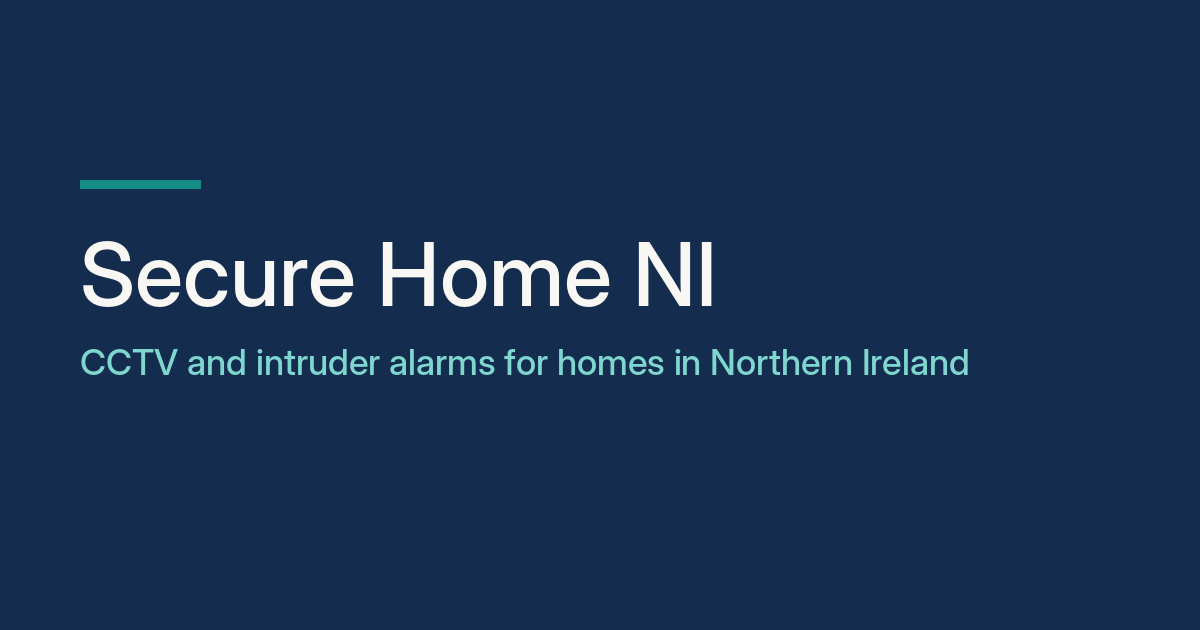
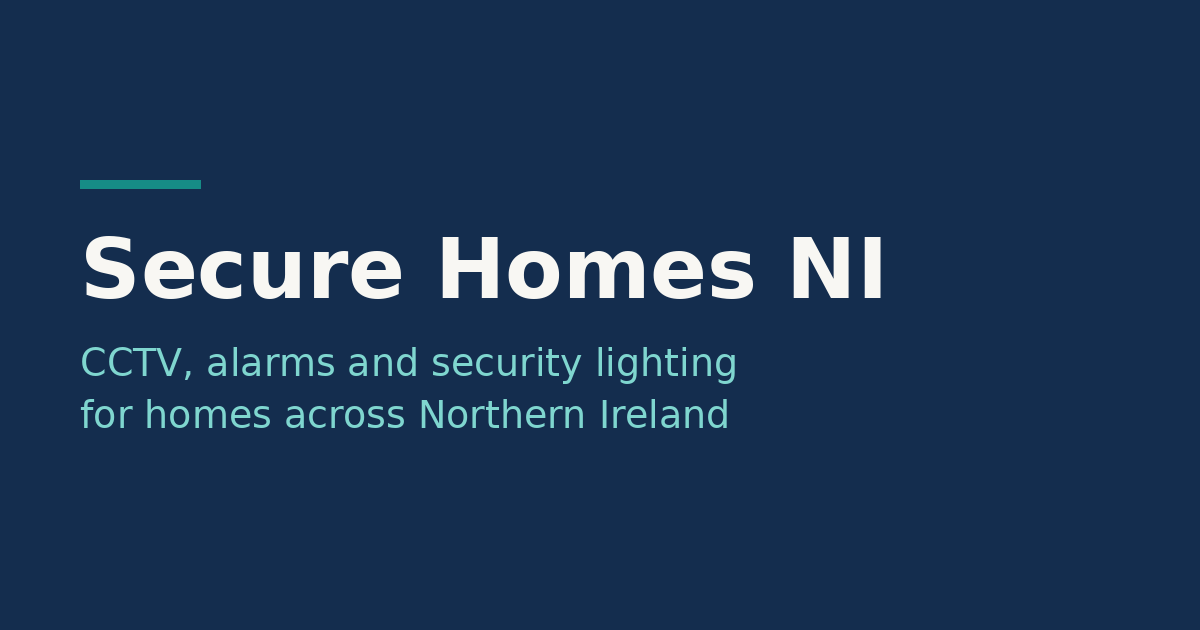
Rename to Secure Homes NI
- Business name, sleigh artwork, social sharing image, README, package name
- Logo scales down slightly below 400px so the header fits at 320px
- Areas list uses one column on the narrowest phones (WCAG reflow at 320px)

Claude-Session: https://claude.ai/code/session_01KNvLstxyJPfCd5R9RbgFaS

Changed region(s): [[0.0617, 0.3619, 0.74, 0.4825], [0.0617, 0.5429, 0.8017, 0.6032], [0.0617, 0.6333, 0.6167, 0.6937]]

diff --git a/src/config/site.ts b/src/config/site.ts
@@ -13,7 +13,7 @@
  */
 
 export const site = {
-  name: 'Secure Home NI', // PLACEHOLDER: trading name exactly as on Google Business Profile
+  name: 'Secure Homes NI', // PLACEHOLDER: trading name exactly as on Google Business Profile
   // The company behind the brand, shown in the footer
   tradingAs: {
     name: 'Unified Integrated Systems',
@@ -93,7 +93,7 @@ export const site = {
     { name: 'Pyronix', role: 'intruder alarm specialists', text: 'Wired and wireless alarms, with the HomeControl+ app to set and unset from anywhere.' },
   ],
 
-  // Christmas effects in the homepage hero: falling snow and a Secure Home NI sleigh. It only runs between these dates (month-day),
+  // Christmas effects in the homepage hero: falling snow and a Secure Homes NI sleigh. It only runs between these dates (month-day),
   // checked in the visitor's browser, so it switches itself on and off each year
   // without a rebuild. Set show: false to turn it off completely.
   christmas: {

diff --git a/README.md b/README.md
@@ -1,4 +1,4 @@
-# Secure Home NI website
+# Secure Homes NI website
 
 Marketing website for a home security installer (CCTV and intruder alarms), built with Astro, Tailwind CSS v4 and TypeScript, and deployed as a static site on Cloudflare Pages. The quote form is handled by a Cloudflare Pages Function with Turnstile spam protection.
 
@@ -97,7 +97,7 @@ Copy an existing Markdown file in the matching `src/content/` folder and change 
 `bundle` in `src/config/site.ts`: price, what's included and terms. Set `show: false` to hide the section.
 
 ### Christmas effects
-The homepage hero shows gentle snowfall and a Secure Home NI sleigh (drawn in `components/home/Christmas.astro`) between the dates in `christmas` in `src/config/site.ts` (15 November to 6 January by default). It turns itself on and off each year with no rebuild. It never runs for visitors who have reduced motion switched on, and has a pause button. Set `show: false` to remove it.
+The homepage hero shows gentle snowfall and a Secure Homes NI sleigh (drawn in `components/home/Christmas.astro`) between the dates in `christmas` in `src/config/site.ts` (15 November to 6 January by default). It turns itself on and off each year with no rebuild. It never runs for visitors who have reduced motion switched on, and has a pause button. Set `show: false` to remove it.
 
 ### FAQs
 `src/data/faqs.ts`. Answers can include links. They appear on the contact page.
